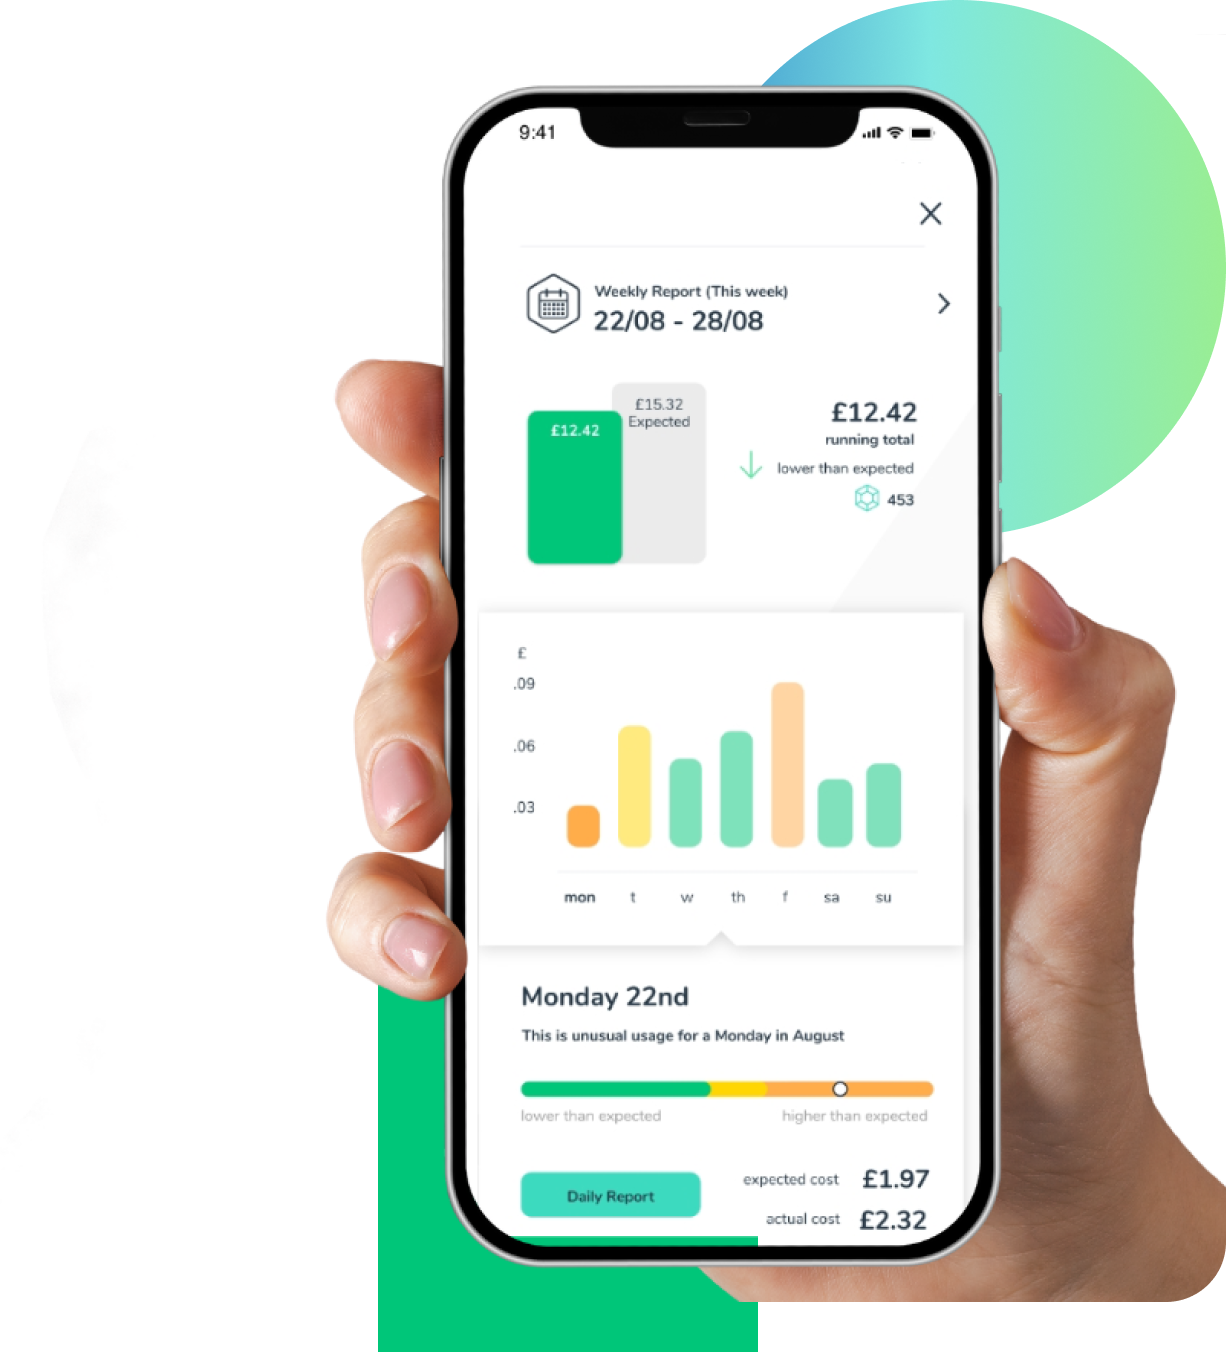
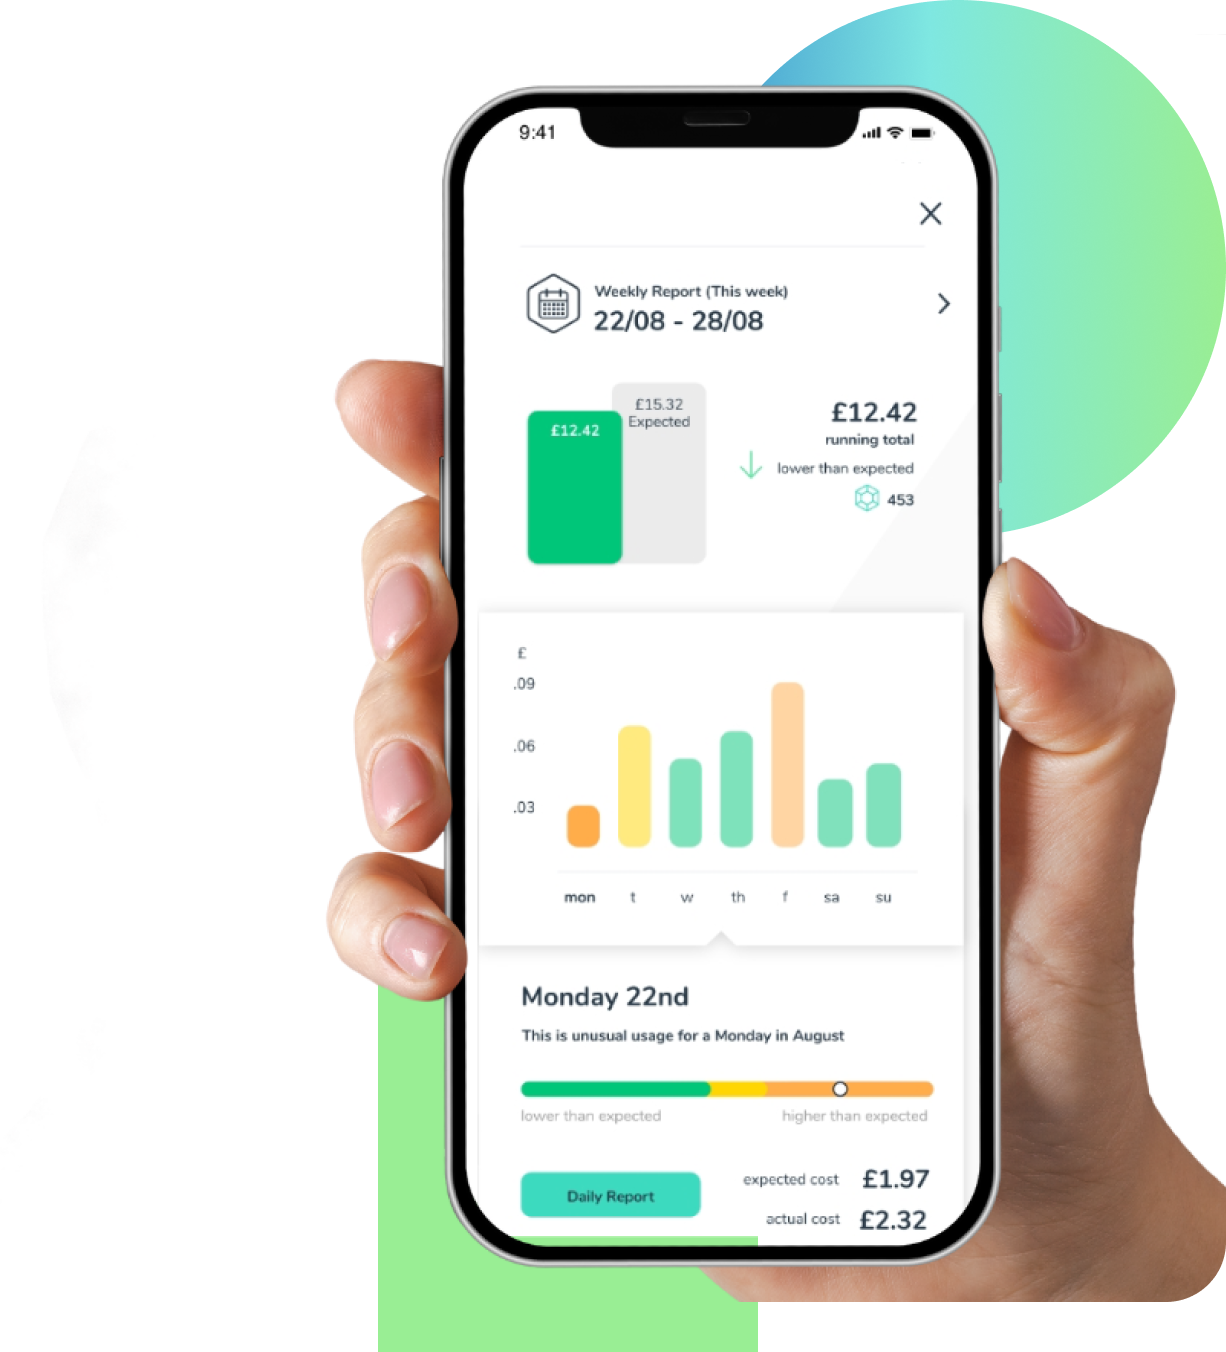
design changes

Changed region(s): [[0.31, 0.7145, 0.6199, 1.0]]

diff --git a/src/app/Home/Banner-CTA.tsx b/src/app/Home/Banner-CTA.tsx
@@ -1,15 +1,17 @@
-import React from 'react';
+'use client'
+
+import React, { useEffect, useState } from 'react';
 import Link from 'next/link';
 
 
 const BannerCTA = () => {
   return (
     <section className="w-full h-auto bg-dark-blue py-20 font-sans">
-      <div className='w-full h-auto bg-grey'>
+      <div className="w-full h-auto custom-banner-gradient">
         <div className='max-w-4xl mx-auto flex flex-col md:flex-row justify-between items-center w-full py-12 px-4 md:px-6'>
 
           <div className="text-center md:text-left mb-6 md:mb-0 max-w-[300px]">
-            <h2 className="text-lg md:text-2xl font-medium text-white">Schedule a FREE 30-min consultation call</h2>
+            <h2 className="text-lg md:text-2xl font-medium text-dark-blue">Schedule a FREE 30-min consultation call</h2>
 
           </div>
           <button className="text-center md:text-right">
@@ -17,9 +19,9 @@ const BannerCTA = () => {
               href="https://calendar.app.google/uFxrUnMRtAZZtwih9" 
               target="_blank" 
               rel="noopener noreferrer" 
-              className="inline-block text-sm px-6 py-3 bg-light-blue hover:bg-white text-dark-blue duration-300 rounded-full font-medium"
+              className="inline-block text-base px-8 py-4 bg-dark-blue hover:bg-white text-white hover:text-dark-blue border-2 border-dark-blue duration-300 rounded-full font-medium"
             >
-              Schedule a meeeting with an expert
+              Let's discuss your project
             </Link>
           </button>
 

diff --git a/src/app/Home/AboutUs.tsx b/src/app/Home/AboutUs.tsx
@@ -31,7 +31,7 @@ const AboutUs = () => {
           <div 
             className="absolute top-0 left-0 w-full h-full"
             style={{
-              transform: `translate(${190 + scrollY * 0.05}px, ${scrollY * 0.05}px)`,
+              transform: `translate(${190 + scrollY * 0.1}px, ${scrollY * 0.1}px)`,
               transition: 'transform 0.1s ease-out'
             }}
           >
@@ -49,7 +49,7 @@ const AboutUs = () => {
             <h3 className="text-3xl md:text-4xl font-medium text-white md:leading-[48px] mb-7">Where technology and sustainability meet</h3>
             <p className="text-white font-light leading-[29px] text-base">
             At Coddit, we’re on a mission to accelerate the transition to a sustainable economy.
-             We partner with forward-thinking startups and enterprises to create cutting-edge, 
+             We partner with startups and enterprises to create cutting-edge, 
              custom software solutions that not only address today’s challenges but also pave the way 
              for a more efficient, greener, and sustainable tomorrow.
             </p>
@@ -61,7 +61,7 @@ const AboutUs = () => {
               rel="noopener noreferrer" 
               className="text-white hover:text-light-blue duration-300"
             >
-              Learn more about us
+              Learn more about our approach
             </Link>
           </button>
         </div>

diff --git a/src/app/Home/Footer.tsx b/src/app/Home/Footer.tsx
@@ -3,9 +3,9 @@ import logoImage from "../../../public/images/logo.svg";
 
 const Footer = () => {
   return (
-    <section className="bg-dark-blue font-sans overflow-hidden w-full px-4 md:pt-24 md:pt-32 pb-8">
+    <section className="bg-dark-blue font-sans overflow-hidden w-full px-4 md:pt-24 pb-8">
       <div className="container mx-auto md:max-w-5xl bg-white/[.14] rounded-xl md:rounded-3xl md:mb-16">
-        <div className="flex flex-wrap md:flex-nowrap justify-between p-8 md:p-12">
+        <div className="flex flex-wrap md:flex-nowrap justify-between p-8 md:p-12 md:pb-8">
           <div className="w-full md:w-1/4 mb-8 md:mb-0 -ml-4 md:-ml-0">
             <Image
               src={logoImage}
@@ -59,7 +59,7 @@ const Footer = () => {
           </div>
         </div>
         <div className="container mx-auto px-8 md:px-12 pb-8">
-          <hr className="border-t border-white/50 my-8" />
+          <hr className="border-t border-white/50 mb-8" />
           <p className="text-white/70 text-sm font-extralight text-left">
             © Copyright 2024 Coddit. All Rights Reserved
           </p>

diff --git a/src/app/Home/Navbar.tsx b/src/app/Home/Navbar.tsx
@@ -45,12 +45,11 @@ const Navbar = () => {
               <button onClick={() => scrollToSection('contact')} className="text-white hover:text-light-blue duration-300">Contact</button>
             </div>
           </div>
-          <button className="hidden md:block text-sm px-8 py-3 custom-gradient hover:bg-white text-dark-blue duration-300 rounded-full font-medium">
+          <button className="hidden md:block text-sm px-8 py-3 custom-gradient text-dark-blue rounded-full font-medium">
             <Link 
               href="https://calendar.app.google/uFxrUnMRtAZZtwih9" 
               target="_blank" 
               rel="noopener noreferrer" 
-              className="text-dark-blue duration-300"
             >
               Let's Talk
             </Link>

diff --git a/src/app/Home/BrandBanner.tsx b/src/app/Home/BrandBanner.tsx
@@ -11,7 +11,7 @@ const BrandBanner: React.FC<BrandBannerProps> = ({ brands, title }) => {
       <h2 className="text-lg font-bold uppercase mb-4 text-light-blue">{title}</h2>
       <div className="flex flex-col md:flex-row justify-center items-center md:max-w-5xl mx-auto md:space-x-16">
         {brands.map((brand, index) => (
-          <Image src={brand} alt={`Brand ${index}`} width={100} height={50} className="w-full md:w-1/4 px-24 md:py-6 md:p-0"/>
+          <Image key={index} src={brand} alt={`Brand ${index}`} width={100} height={50} className="w-full md:w-1/4 px-24 md:py-6 md:p-0"/>
         ))}
       </div>
     </section>

diff --git a/src/app/Home/Hero.tsx b/src/app/Home/Hero.tsx
@@ -4,7 +4,7 @@ import Link from 'next/link';
 const Hero = () => {
   return (
     <section className="bg-dark-blue font-sans flex items-center justify-center">
-      <div className="text-center max-w-2xl mx-auto px-4 sm:px-6 lg:px-8 mt-20 mb-4 md:mt-40 md:mb-16">
+      <div className="text-center max-w-2xl mx-auto px-4 sm:px-6 lg:px-8 mt-20 mb-4 md:mt-36 md:mb-12">
         <h1 className="text-white text-4xl md:text-5xl font-medium md:leading-[3.8rem] mb-14">
           Your partner in sustainable software innovation
         </h1>

diff --git a/src/app/Home/Contact.tsx b/src/app/Home/Contact.tsx
@@ -129,7 +129,7 @@ const Contact = () => {
               </div>
             </div>
             {successMessage && (
-              <div className="bg-green text-dark-blue p-2 rounded mb-4">{successMessage}</div>
+              <div className="bg-lime-green text-dark-blue p-2 rounded mb-4">{successMessage}</div>
             )}
             <button
               className="w-full py-4 custom-gradient hover:bg-white text-dark-blue duration-300 rounded-full font-medium"

diff --git a/src/app/globals.css b/src/app/globals.css
@@ -83,5 +83,12 @@
 }
 
 .custom-gradient {
+  /* @apply bg-gradient-to-r from-sky-400 via-cyan-300 to-green-300; */
+  @apply bg-gradient-to-r from-sky-400 via-[#25D3ED,#85EFAC,#85EFAC,#25D3ED] to-sky-400;
+  @apply transition-all duration-500  bg-size-200 bg-pos-0 hover:bg-pos-100 hover:text-white;
+}
+
+.custom-banner-gradient {
   @apply bg-gradient-to-r from-sky-400 via-cyan-300 to-green-300;
+  
 }

diff --git a/tailwind.config.ts b/tailwind.config.ts
@@ -20,6 +20,13 @@ const config: Config = {
         'white': '#EDEDED',
         'grey': '#525661'
       },
+      backgroundSize: {
+        'size-200': '200% 200%',
+      },
+      backgroundPosition: {
+        'pos-0': '0% 0%',
+        'pos-100': '100% 100%',
+      },
     },
   },
   plugins: [],
